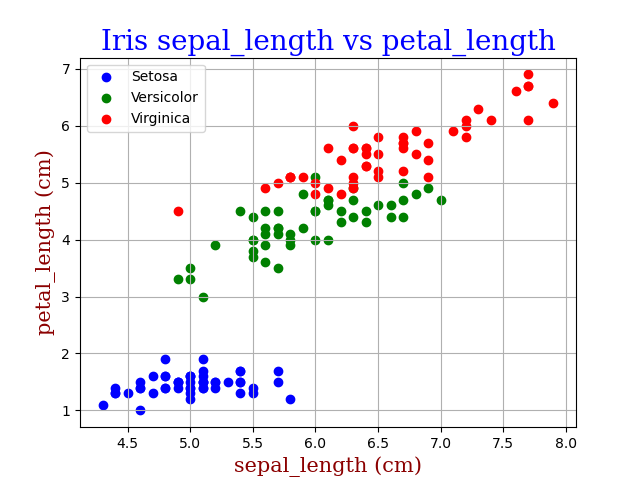
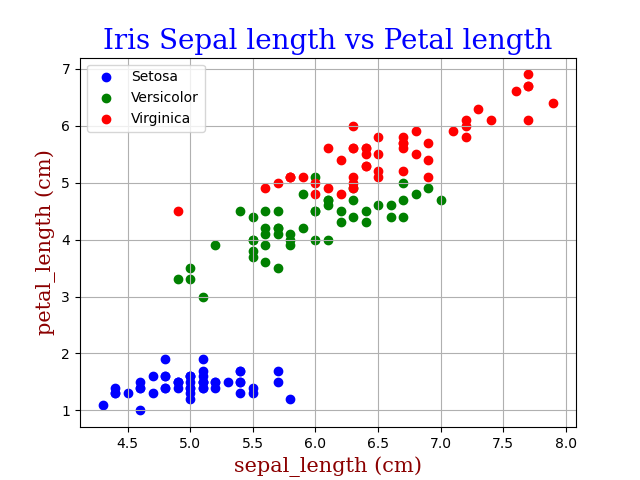
Adding to plots in analysis.py

Changed region(s): [[0.1562, 0.0625, 0.875, 0.125]]

diff --git a/analysis.py b/analysis.py
@@ -110,7 +110,7 @@ def create_histogram(df, variable): #The function takes in two parameters, the d
     ax.hist(versicolor[variable], bins=10, label="Versicolor", color="green", alpha=0.5)
     ax.hist(virginica[variable], bins=10, label="Virginica", color="red", alpha=0.5)
 
-    #Set the font for the x and y axis labels and the title
+    #Set the font for the x and y axis labels and the title (https://www.w3schools.com/python/matplotlib_labels.asp)
     font1 = {'family':'serif','color':'blue','size':20}
     font2 = {'family':'serif','color':'darkred','size':15}
 
@@ -149,7 +149,7 @@ def create_scatter_plot(df, x, y): #The function takes in three parameters, the 
     ax.scatter(versicolor[x], versicolor[y], label="Versicolor", facecolor="green")
     ax.scatter(virginica[x], virginica[y], label="Virginica", facecolor="red")
 
-    #Set the font for the x and y axis labels and the title
+    #Set the font for the x and y axis labels and the title (https://www.w3schools.com/python/matplotlib_labels.asp)
     font1 = {'family':'serif','color':'blue','size':20}
     font2 = {'family':'serif','color':'darkred','size':15}
 
@@ -161,7 +161,7 @@ def create_scatter_plot(df, x, y): #The function takes in three parameters, the 
     ax.grid()
 
     #Add a title
-    ax.set_title("Iris " + x + " vs " + y, fontdict=font1)
+    ax.set_title("Iris " + x.capitalize().replace('_', ' ') + " vs " + y.capitalize().replace('_', ' '), fontdict=font1)
 
     #Add a legend
     ax.legend()
